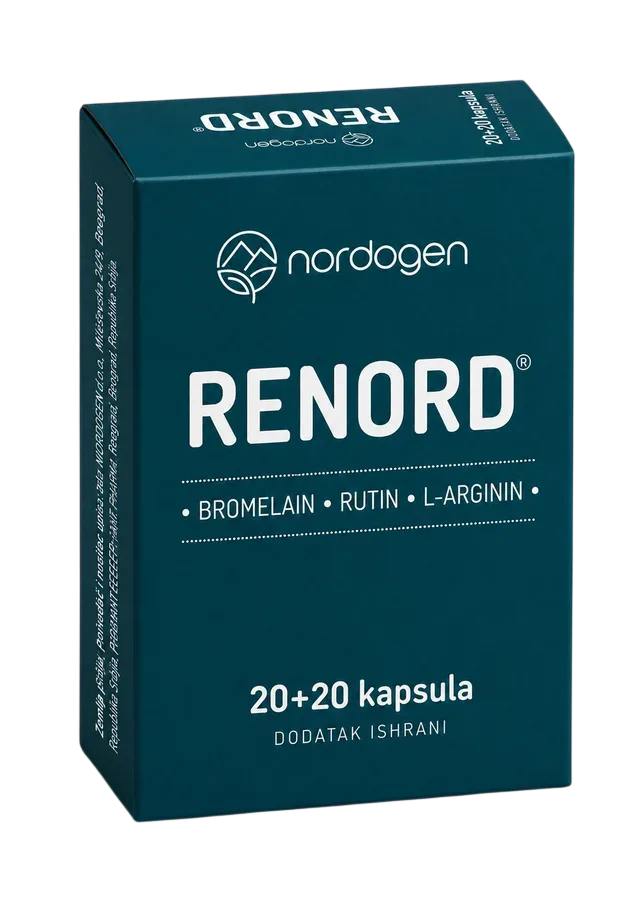
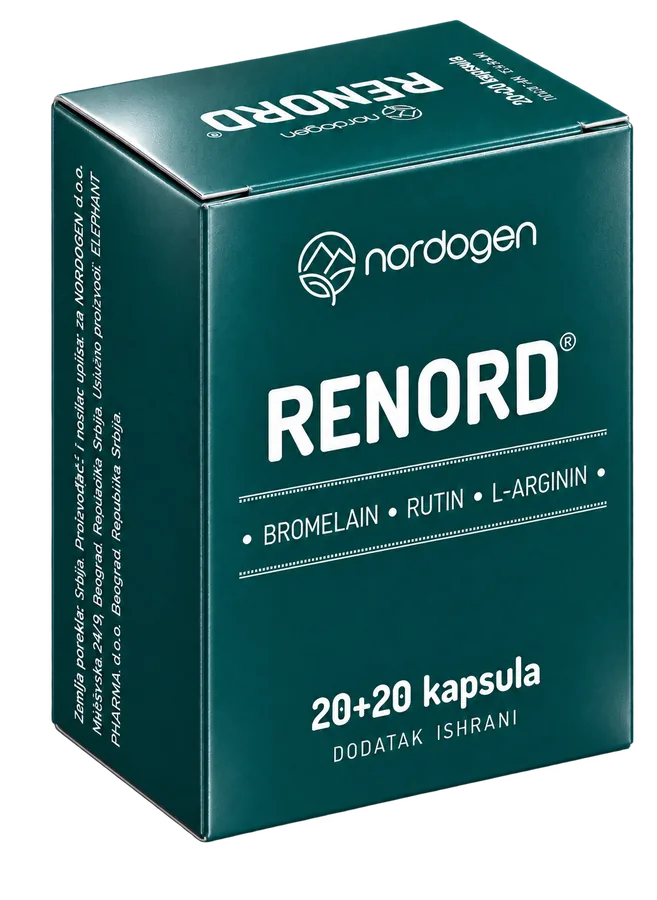
feat(products): new box cutouts and pharmacy-scene product heroes (#19)

Changed region(s): [[0.0602, 0.0, 0.9635, 0.9333], [0.3914, 0.7156, 0.8431, 0.84]]

diff --git a/src/app/(site)/[locale]/products/[slug]/page.tsx b/src/app/(site)/[locale]/products/[slug]/page.tsx
@@ -16,6 +16,7 @@ import {
   getSettings,
   type Product,
 } from '@/content/queries'
+import { productBoxSrc, productSceneSrc } from '@/content/product-images'
 import { LOCALES, isLocale, type Locale } from '@/i18n/locales'
 import { PRODUCT_SECTION_ID, SECTION_ID, UI } from '@/i18n/ui'
 import { absoluteUrl } from '@/i18n/urls'
@@ -158,19 +159,21 @@ export default async function ProductPage({
       {/* Hero. Mobile puts the panel above the copy as a full-width band. */}
       <div className="flex flex-col bg-panel lg:bg-transparent">
         <Container className="lg:grid lg:grid-cols-[1fr_1.05fr] lg:items-start lg:gap-14 lg:py-16 lg:pb-[3.75rem]">
-          <div className="-mx-5 flex items-center justify-center bg-panel px-5 py-8 lg:mx-0 lg:min-h-[480px] lg:rounded-card lg:p-12">
+          {/* The pharmacy scene fills the panel edge to edge: an opaque photo,
+              cropped 4:5 at source. On mobile it is a full-bleed band above
+              the copy; on desktop a rounded card beside it. */}
+          <div className="relative -mx-5 aspect-[4/5] overflow-hidden bg-panel lg:mx-0 lg:rounded-card">
             <Image
-              src={`/products/${product.slug}.webp`}
+              src={productSceneSrc(product.slug)}
               /* The one product image that is the subject of its page rather
                  than decoration beside a heading, so it carries real alt text
                  for image search. Card and related-product thumbs stay empty. */
               alt={`${product.name}, ${product.hero.pack}`}
-              width={900}
-              height={900}
+              fill
               priority
               fetchPriority="high"
-              sizes="(min-width: 1024px) 560px, 82vw"
-              className="max-h-[300px] w-auto max-w-[82%] object-contain lg:max-h-[440px] lg:max-w-full"
+              sizes="(min-width: 1024px) 560px, 100vw"
+              className="object-cover"
             />
           </div>
 
@@ -406,7 +409,7 @@ function RelatedCard({ product, locale }: { product: Product; locale: Locale }) 
       className="flex h-full items-center gap-4 rounded-card border border-ink/12 bg-white p-4 transition-colors duration-[140ms] ease-out hover:border-accent lg:gap-[18px] lg:p-5"
     >
       <Image
-        src={`/products/${product.slug}.webp`}
+        src={productBoxSrc(product.slug)}
         alt=""
         width={96}
         height={96}

diff --git a/src/content/products.test.ts b/src/content/products.test.ts
@@ -1,5 +1,6 @@
 import { existsSync, readFileSync, readdirSync } from 'node:fs'
 import { describe, expect, it } from 'vitest'
+import { productBoxSrc, productSceneSrc } from '@/content/product-images'
 import { LOCALES, type Locale } from '@/i18n/locales'
 import { repoPath } from '@/test/paths'
 
@@ -35,10 +36,13 @@ describe('product content', () => {
     for (const locale of LOCALES) expect(slugsIn(locale)).toEqual(SLUGS)
   })
 
-  it('ships a photo for every slug', () => {
-    // The photo is derived from the slug rather than stored as a CMS field, so
-    // a renamed product silently loses its image unless this holds.
-    for (const slug of SLUGS) expect(existsSync(repoPath(`public/products/${slug}.webp`)), slug).toBe(true)
+  it('ships both photos for every slug', () => {
+    // The photos are derived from the slug rather than stored as CMS fields, so
+    // a renamed product silently loses its images unless this holds.
+    for (const slug of SLUGS) {
+      expect(existsSync(repoPath(`public${productBoxSrc(slug)}`)), `${slug} box`).toBe(true)
+      expect(existsSync(repoPath(`public${productSceneSrc(slug)}`)), `${slug} scene`).toBe(true)
+    }
   })
 
   it('keeps name, order, family and category identical across locales', () => {

diff --git a/src/keystatic/schema.ts b/src/keystatic/schema.ts
@@ -97,10 +97,10 @@ export function homeSchema() {
  * One product, in one locale — the card on the home page and the whole product
  * page behind it.
  *
- * The file name is the slug, and the slug is also the product photo:
- * `public/products/<slug>.webp`. The photo is deliberately not a CMS field — it
- * is identical in both locales, and a per-locale image field is a per-locale
- * way to get them out of sync.
+ * The file name is the slug, and the slug also names the product's two photos
+ * (see `src/content/product-images.ts`). The photos are deliberately not CMS
+ * fields — they are identical in both locales, and a per-locale image field is
+ * a per-locale way to get them out of sync.
  */
 export function productSchema() {
   return {
@@ -109,7 +109,7 @@ export function productSchema() {
       slug: {
         label: 'File name and photo',
         description:
-          'Lowercase, no spaces. Must match the photo in public/products, e.g. “myonord” for myonord.webp.',
+          'Lowercase, no spaces. Must match the product photos, e.g. “myonord” for myonord.webp and myonord-pharmacy.webp. Ask a developer before changing it.',
       },
     }),
     order: fields.integer({

diff --git a/src/content/product-images.ts b/src/content/product-images.ts
@@ -1,0 +1,22 @@
+/**
+ * Where a product's two photos live. Both are derived from the slug — neither
+ * is a CMS field, because they are identical in both locales.
+ *
+ * - The **box** is a cutout with an alpha channel: home card, related-product
+ *   cards, and the structured-data `image`.
+ * - The **scene** is the box on a pharmacy counter, opaque, cropped 4:5: the
+ *   product page hero.
+ *
+ * Paths are flat and unversioned by choice. `next/image`, browsers and the CDN
+ * cache by URL, not by content, so a picture replaced at the same path can keep
+ * showing the old one for a while after deploy — accepted for simplicity.
+ */
+const PHOTO_DIR = '/products'
+
+export function productBoxSrc(slug: string): string {
+  return `${PHOTO_DIR}/${slug}.webp`
+}
+
+export function productSceneSrc(slug: string): string {
+  return `${PHOTO_DIR}/${slug}-pharmacy.webp`
+}

diff --git a/src/lib/structured-data.ts b/src/lib/structured-data.ts
@@ -1,6 +1,7 @@
 import type { Locale } from '@/i18n/locales'
 import { SITE_ORIGIN, absoluteUrl } from '@/i18n/urls'
 import { SITE_NAME } from './seo'
+import { productBoxSrc } from '@/content/product-images'
 import type { Product } from '@/content/queries'
 import type { getSettings } from '@/content/queries'
 
@@ -109,7 +110,7 @@ export function productNode({
   const shared: Node = {
     name: product.name,
     url: absoluteUrl(locale, `/products/${product.slug}`),
-    image: `${SITE_ORIGIN}/products/${product.slug}.webp`,
+    image: `${SITE_ORIGIN}${productBoxSrc(product.slug)}`,
     description: product.hero.intro,
     brand: { '@id': ORGANIZATION_ID },
     manufacturer: { '@type': 'Organization', name: settings.manufacturer },

diff --git a/src/components/products/ProductCard.tsx b/src/components/products/ProductCard.tsx
@@ -2,6 +2,7 @@ import Image from 'next/image'
 import Link from 'next/link'
 import type { Product } from '@/content/queries'
 import type { Locale } from '@/i18n/locales'
+import { productBoxSrc } from '@/content/product-images'
 import { IngredientPills } from './IngredientPills'
 
 /**
@@ -30,7 +31,7 @@ export function ProductCard({ product, locale }: { product: Product; locale: Loc
 
       <div className="relative h-[180px] bg-well lg:h-[210px]">
         <Image
-          src={`/products/${product.slug}.webp`}
+          src={productBoxSrc(product.slug)}
           /* Decorative: the product name is the adjacent heading, so alt text
              here would just make a screen reader say it twice. */
           alt=""

diff --git a/src/lib/structured-data.test.ts b/src/lib/structured-data.test.ts
@@ -1,6 +1,7 @@
 import { readFileSync, readdirSync } from 'node:fs'
 import { beforeEach, describe, expect, it, vi } from 'vitest'
 import { repoPath } from '@/test/paths'
+import { productBoxSrc } from '@/content/product-images'
 
 const ORIGIN = 'https://www.nordogen.com'
 
@@ -65,7 +66,7 @@ describe('product structured data', () => {
     for (const slug of SLUGS) {
       const n = await node(slug)
       expect(n.url).toBe(`${ORIGIN}/sr/products/${slug}`)
-      expect(n.image).toBe(`${ORIGIN}/products/${slug}.webp`)
+      expect(n.image).toBe(`${ORIGIN}${productBoxSrc(slug)}`)
     }
   })
 

diff --git a/AGENTS.md b/AGENTS.md
@@ -134,10 +134,14 @@ array is empty**, taking their band and their on-page-nav entry with them. `ingr
 feeds three things at once: the pills on the home card, the pills in the product hero, and the
 ingredient cards.
 
-**A product's photo is derived from its slug** (`public/products/<slug>.webp`), not stored as a
-CMS image field. The photo is identical in both locales, and a per-locale image field is a
-per-locale way to get them out of sync. `src/content/products.test.ts` asserts every slug has a
-file, so a rename cannot silently blank a card.
+**A product's two photos are derived from its slug**, not stored as CMS image fields:
+`productBoxSrc` (the cutout, for cards and structured data) and `productSceneSrc` (the pharmacy
+scene, for the product page hero) in `src/content/product-images.ts`. They are identical in both
+locales, and a per-locale image field is a per-locale way to get them out of sync.
+`src/content/products.test.ts` asserts every slug has both files, so a rename cannot silently
+blank a card or a hero. Paths are flat (`public/products/<slug>.webp`,
+`<slug>-pharmacy.webp`) and unversioned by choice: a photo replaced in place may show stale for a
+while after deploy (see the image-cache trap under Verification).
 
 Queries **throw** on missing content rather than returning empty strings, so a missing file
 is a build error instead of a page of silent blanks. Keep that posture.
@@ -149,7 +153,7 @@ Write them for that reader.
 
 **Colour.** The full palette is the `@theme` block in `src/app/globals.css` and nothing else.
 Surfaces `paper` `#FCFCFA`, `soft` `#F6F5F1`, `well` `#F4F3EF`, `panel` `#EEF2F4` (the product
-page's hero panel), `white`. Text `ink` `#14201F`,
+page's hero, behind the photo while it loads), `white`. Text `ink` `#14201F`,
 `ink-soft` `#41504E`, `muted` `#5F6C6A`, `nav` `#3D4A49`, `inactive` `#647371`, `on-ink`
 `#A7B4B3`. Accent `accent` `#2E7391`, `accent-light` `#7FB4C9`. Per-product `product-blue`
 `#4C88A8`, `product-teal` `#0F4249`, `product-crimson` `#8E2A3E`, plus `badge-blue` `#3A6E88`.
@@ -290,8 +294,8 @@ optimised output in `.next/cache/images` keyed by URL, not by content, and the b
 top of that. Swap `public/products/myonord.webp` for a different picture at the same path and two
 consecutive verification passes will keep showing the old one — which reads exactly like "the new
 asset is wrong". Delete `.next/cache/images` **and** drive Chrome with
-`Network.setCacheDisabled`. The same staleness can outlive a deployment, so bump the path when an
-image changes meaningfully.
+`Network.setCacheDisabled`. The same staleness can outlive a deployment; product photos
+deliberately accept that rather than versioning their paths.
 
 **A screenshot proves pixels, not markup.** `/keystatic` rendered a perfect-looking admin UI
 while serving no `<html>` or `<body>` at all.
@@ -333,8 +337,10 @@ Everything the repo actually needs from them is already extracted and tracked:
 - `public/brand/logo-mark.svg`, `logo-wordmark.svg` — the generated logo assets
 - `public/brand/favicon-source.png` and `src/app/icon.png` — from `logos/nordogen1.png`
 - `public/images/hero.jpg`, `lab.jpg` — resized to 1920w, mozjpeg q78
-- `public/products/<slug>.webp` — the six renders at 900px, q82. 12 MB of source PNGs became
-  ~240 KB; do not commit the originals back.
+- `public/products/<slug>.webp` — the six box cutouts, longest side 900px, q82
+- `public/products/<slug>-pharmacy.webp` — the six pharmacy scenes, centre-cropped to
+  4:5 at 1000×1250, q80. Source PNGs (~2 MB each) came from the client in Nov 2026 and are not
+  in the repo; do not commit them.
 
 The one consequence: `scripts/extract-logo.mjs` reads `data/nordogen logo 1 v1.pdf`, so it
 cannot run on a checkout without `data/`. That only matters if the logo artwork changes; the
@@ -349,7 +355,7 @@ The logo tagline is **live text**, not paths, so it localises (`UROLOGIJA • GI
 REGENERACIJA` / `UROLOGY • GYNECOLOGY • REGENERATION`).
 
 **There is photography now** — this reverses the pre-redesign rule. Two art-directed stills
-(`public/images/hero.jpg`, `lab.jpg`) plus six product box renders (`public/products/*.webp`).
+(`public/images/hero.jpg`, `lab.jpg`) plus six product box cutouts and six pharmacy scenes (`public/products/`).
 
 The renders are **background-removed cutouts with a real alpha channel**, so they need no blend
 mode and sit correctly on any ground. The handoff's originals were shot on a light grey backdrop

diff --git a/docs/design-review-handoff.md b/docs/design-review-handoff.md
@@ -107,6 +107,7 @@ Each was reviewed and parked with a ruling rather than fixed.
 | Duplicated className strings; three different composition styles | Cheap now, worth a shared `cn()` before more pages |
 | `localePath()` helper missing — `` `/${locale}/…` `` hand-built at 12 sites | Same root cause as the switcher issue |
 | Logo SVG inlined 4× per page (~27KB of 83KB HTML, 10.9KB gzipped) | A `<symbol>`/`<use>` sprite would recover the spec's intent |
+| Pharmacy hero scenes are AI-generated and show a background pharmacist | Client-supplied; flag if a real-person likeness or a pharmacy's branding ever appears |
 
 ## Before the first Vercel deploy
 
